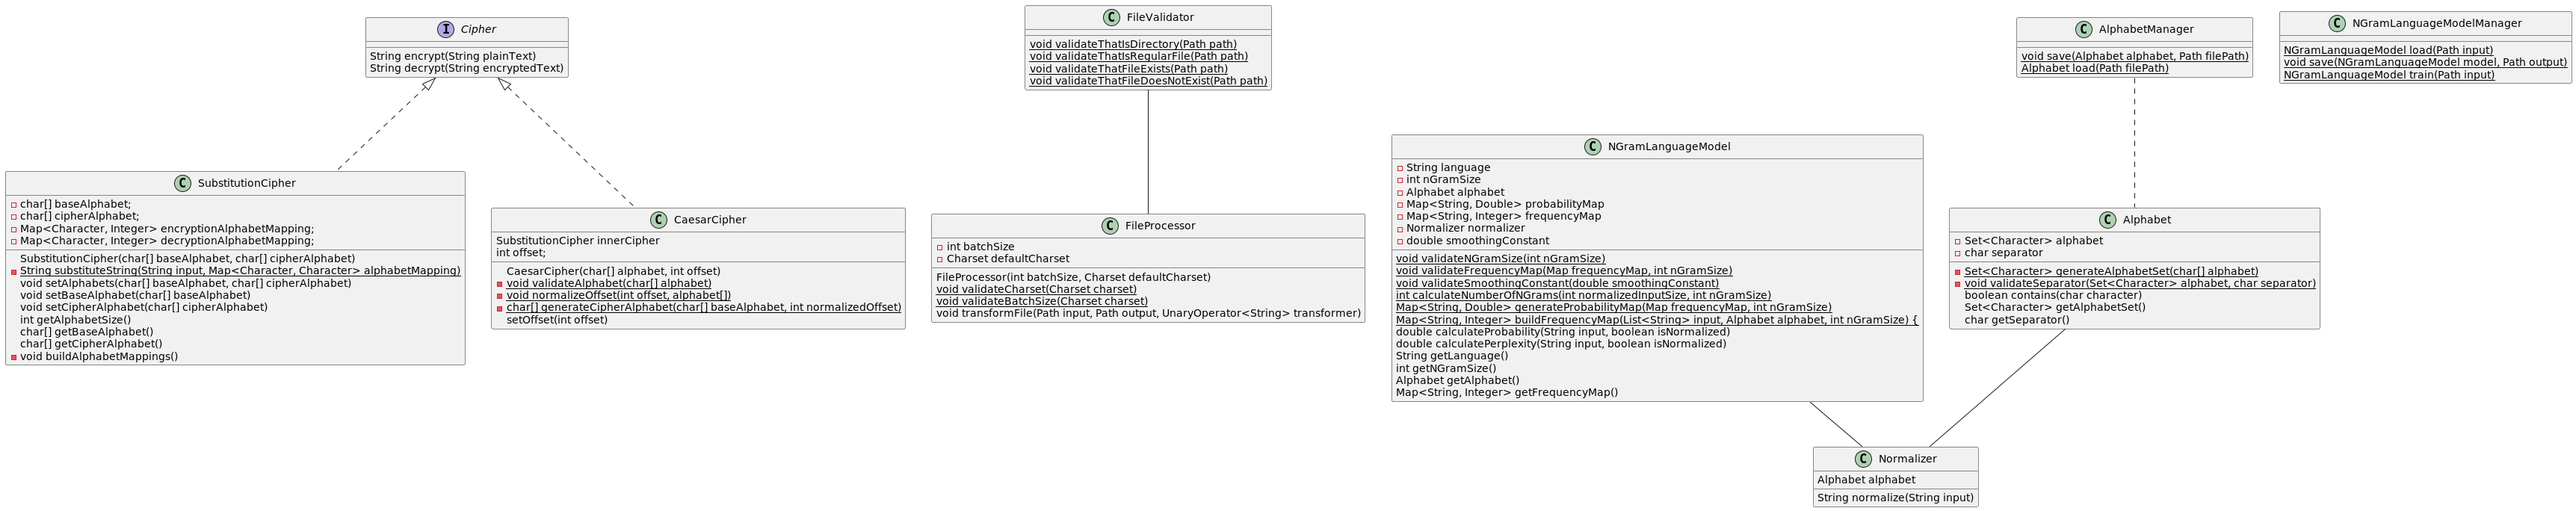
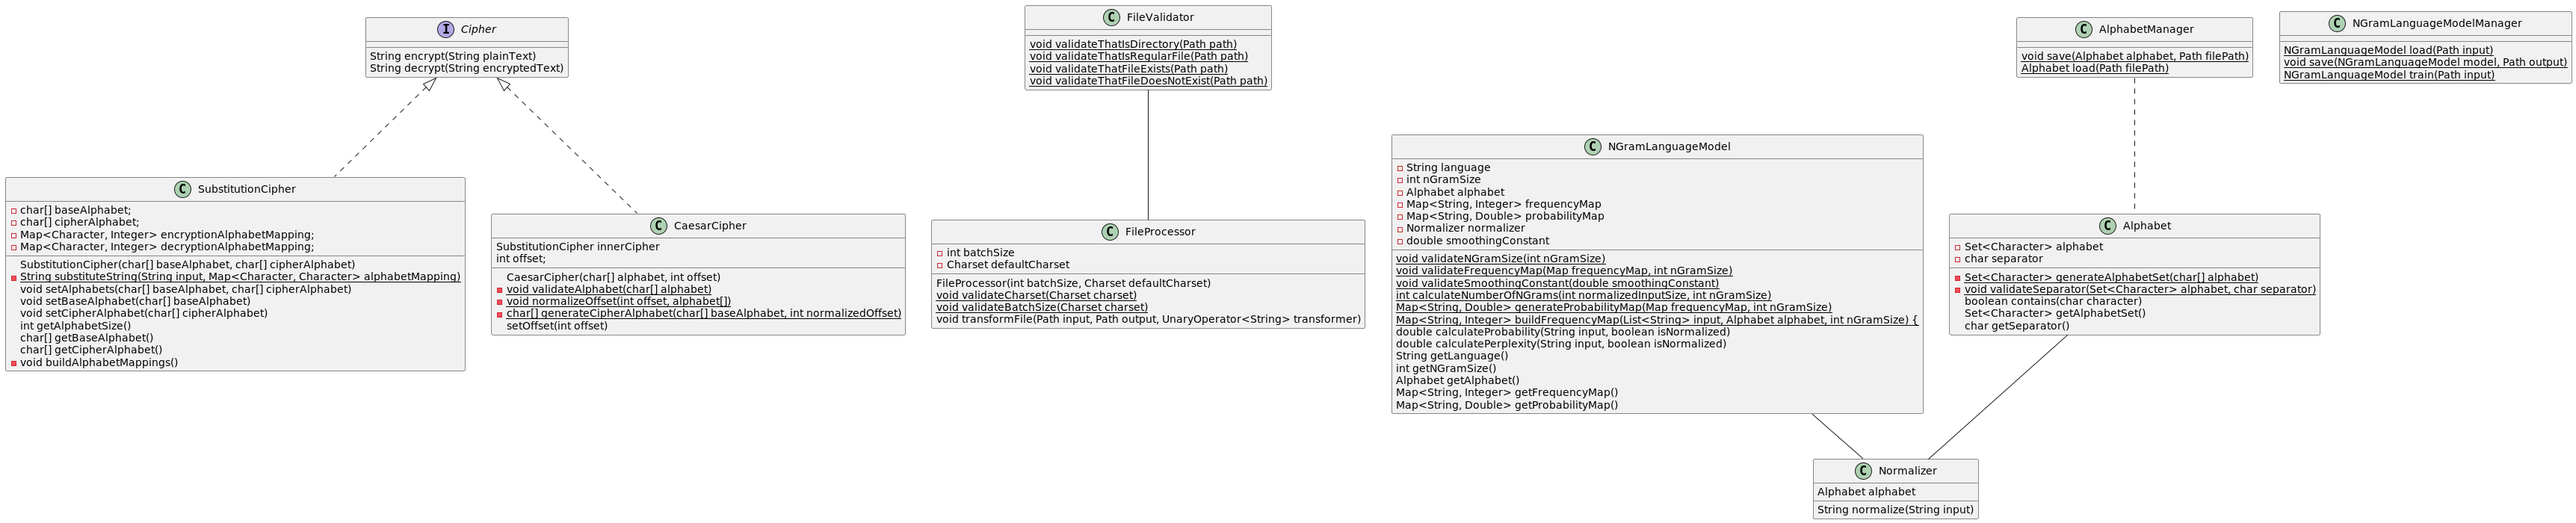
test: Implemented NGramLanguageModelManager.save()

diff --git a/app/src/test/java/cryptologyapp/nlp/NGramLanguageModelManagerTest.java b/app/src/test/java/cryptologyapp/nlp/NGramLanguageModelManagerTest.java
@@ -1,41 +1,76 @@
 package cryptologyapp.nlp;
 
 import cryptologyapp.TestingConstants;
+import cryptologyapp.files.Directories;
+import cryptologyapp.utils.FileTester;
+import org.junit.jupiter.api.AfterAll;
+import org.junit.jupiter.api.BeforeEach;
 import org.junit.jupiter.api.Test;
 
 import java.nio.file.Path;
-import java.nio.file.Paths;
+import java.util.ArrayList;
+import java.util.List;
+import java.util.Map;
 
-import static org.junit.jupiter.api.Assertions.*;
+import static org.junit.jupiter.api.Assertions.assertTrue;
 
 class NGramLanguageModelManagerTest {
 
-    static final char[] LATIN_ALPHABET = {'a', 'b', 'c', 'd', 'e', 'f', 'g', 'h', 'i', 'j', 'k', 'l', 'm', 'n', 'o', 'p', 'q', 'r', 's', 't', 'u', 'v', 'w', 'x', 'y', 'z'};
-    static final char SEPARATOR = '_';
-    static final double SMOOTHING_CONSTANT = 0.000001;
-    static final Path LATIN_TRAINING_FILE = TestingConstants.BASE_TEST_RESOURCES_PATH.resolve("latin-training-set.txt");
+
+    @BeforeEach
+    void cleanTmpOutputDirectoryBeforeEach() {
+        Directories.recursivelyDeleteDirectory(TestingConstants.BASE_TEST_TMP_OUTPUT_PATH);
+    }
+
+    @AfterAll
+    static void cleanTmpOutputDirectoryAfterAll() {
+        Directories.recursivelyDeleteDirectory(TestingConstants.BASE_TEST_TMP_OUTPUT_PATH);
+    }
 
     @Test
     void train() {
-        NGramLanguageModel model = NGramLanguageModelManager.train(LATIN_TRAINING_FILE,
+        NGramLanguageModel model = NGramLanguageModelManager.train(TestingConstants.LATIN_TRAINING_FILE,
                 "latin",
                 2,
-                LATIN_ALPHABET,
-                SEPARATOR,
-                SMOOTHING_CONSTANT);
-        double latinTextProbability = model.calculateProbability("lorem", false);
-        double randomTextProbability = model.calculateProbability("abc", false);
-        double latinTextPerplexity = model.calculatePerplexity("lorem", false);
-        double randomTextPerplexity = model.calculatePerplexity("abc", false);
-        System.out.format("latin text probability: %f | random text probability: %f",
+                TestingConstants.LATIN_ALPHABET,
+                TestingConstants.SEPARATOR,
+                TestingConstants.SMOOTHING_CONSTANT);
+        double latinTextProbability = model.calculateProbability("lorem ipsum", false);
+        double randomTextProbability = model.calculateProbability("abcdef", false);
+        double latinTextPerplexity = model.calculatePerplexity("lorem ipsum", false);
+        double randomTextPerplexity = model.calculatePerplexity("abcdef", false);
+        System.out.format("latin text probability: %f | random text probability: %f%n",
                 latinTextProbability,
                 randomTextProbability);
-        System.out.format("latin text perplexity: %f | random text perplexity: %f",
+        System.out.format("latin text perplexity: %f | random text perplexity: %f%n",
                 latinTextPerplexity,
                 randomTextPerplexity);
         assertTrue(latinTextProbability > randomTextProbability,
                 "Latin text should be more probable than random text for the Latin training set");
         assertTrue(latinTextPerplexity < randomTextPerplexity,
                 "Latin text should be less perplex than random text for the Latin training set");
+    }
+
+    @Test
+    void save() {
+        Path outputPath = TestingConstants.BASE_TEST_TMP_OUTPUT_PATH.resolve("test.model");
+        Path alphabetPath = TestingConstants.BASE_TEST_RESOURCES_PATH.resolve("simple-test.alphabet");
+        Alphabet alphabet = AlphabetManager.load(alphabetPath);
+        List<String> expectedFileOutputLines = new ArrayList<>() {{
+            add("test");
+            add("2");
+            add(Double.toString(TestingConstants.SMOOTHING_CONSTANT));
+            add("ab");
+            add("1");
+        }};
+
+        NGramLanguageModel model = new NGramLanguageModel("test",
+                2,
+                alphabet,
+                Map.of("ab", 1),
+                TestingConstants.SMOOTHING_CONSTANT);
+        NGramLanguageModelManager.save(model, outputPath);
+
+        FileTester.assertFileContent(expectedFileOutputLines, outputPath);
     }
 }

diff --git a/app/src/main/java/cryptologyapp/nlp/NGramLanguageModelManager.java b/app/src/main/java/cryptologyapp/nlp/NGramLanguageModelManager.java
@@ -1,10 +1,13 @@
 package cryptologyapp.nlp;
 
+import cryptologyapp.files.FileValidator;
 import cryptologyapp.util.NotImplementedYetException;
 
+import java.io.FileWriter;
 import java.io.IOException;
 import java.nio.file.Files;
 import java.nio.file.Path;
+import java.util.Iterator;
 import java.util.List;
 import java.util.Map;
 
@@ -20,11 +23,47 @@ public class NGramLanguageModelManager {
         throw new NotImplementedYetException();
     }
 
-    public static void save(NGramLanguageModel model, Path file) {
-        throw new NotImplementedYetException();
+    public static void save(NGramLanguageModel model, Path filePath) {
+        filePath = filePath.toAbsolutePath();
+        FileValidator.validateThatDoesNotExist(filePath);
+        Map<String, Integer> frequencyMap = model.getFrequencyMap();
+
+        try {
+            Files.createDirectories(filePath.getParent());
+            Files.createFile(filePath);
+        } catch (IOException e) {
+            throw new RuntimeException(e);
+        }
+
+        try (FileWriter fileWriter = new FileWriter(filePath.toFile(), false)) {
+            fileWriter.write(model.getLanguage());
+            fileWriter.write('\n');
+            fileWriter.write(Integer.toString(model.getNGramSize()));
+            fileWriter.write('\n');
+            fileWriter.write(Double.toString(model.getSmoothingConstant()));
+            fileWriter.write('\n');
+
+            // Frequency map
+            Iterator<Map.Entry<String, Integer>> mapIterator = frequencyMap.entrySet().iterator();
+            while (mapIterator.hasNext()) {
+                Map.Entry<String, Integer> entry = mapIterator.next();
+                fileWriter.write(String.format("%s%n%s", entry.getKey(), entry.getValue()));
+                if (mapIterator.hasNext()) {
+                    fileWriter.write('\n');
+                }
+            }
+
+            fileWriter.flush();
+        } catch (IOException e) {
+            throw new RuntimeException(e);
+        }
+
     }
 
     public static NGramLanguageModel train(Path input, String language, int nGramSize, char[] alphabetCharacters, char separator, double smoothingConstant) {
+        FileValidator.validateThatExists(input);
+        FileValidator.validateThatIsRegularFile(input);
+
         try {
             Alphabet alphabet = new Alphabet(alphabetCharacters, separator);
             List<String> fileLines = Files.readAllLines(input);
@@ -35,6 +74,7 @@ public class NGramLanguageModelManager {
                     frequencyMap,
                     smoothingConstant);
         } catch (IOException e) {
+            // Since file validations were performed before, this block should not be reached.
             throw new RuntimeException(e);
         }
     }

diff --git a/app/src/main/java/cryptologyapp/nlp/NGramLanguageModel.java b/app/src/main/java/cryptologyapp/nlp/NGramLanguageModel.java
@@ -9,6 +9,7 @@ public class NGramLanguageModel {
     private String language;
     private int nGramSize;
     private Alphabet alphabet;
+    private Map<String, Integer> frequencyMap;
     private Map<String, Double> probabilityMap;
     private Normalizer normalizer;
     private double smoothingConstant;
@@ -22,6 +23,7 @@ public class NGramLanguageModel {
         this.language = language;
         this.nGramSize = nGramSize;
         this.alphabet = alphabet;
+        this.frequencyMap = frequencyMap;
         this.probabilityMap = NGramLanguageModel.generateProbabilityMap(frequencyMap, nGramSize);
         this.smoothingConstant = smoothingConstant;
     }
@@ -131,7 +133,7 @@ public class NGramLanguageModel {
         int nGramCount = NGramLanguageModel.calculateNumberOfNGrams(input.length(), this.nGramSize);
         for (int i = 0; i < nGramCount; i++) {
             String nGram = input.substring(i, i + this.nGramSize);
-            probability *= this.probabilityMap.getOrDefault(nGram, this.smoothingConstant);
+            probability *= this.probabilityMap.getOrDefault(nGram, this.getSmoothingConstant());
         }
         return probability;
     }
@@ -148,7 +150,15 @@ public class NGramLanguageModel {
         return alphabet;
     }
 
+    public Map<String, Integer> getFrequencyMap() {
+        return Collections.unmodifiableMap(this.frequencyMap);
+    }
+
     public Map<String, Double> getProbabilityMap() {
-        return Collections.unmodifiableMap(probabilityMap);
+        return Collections.unmodifiableMap(this.probabilityMap);
+    }
+
+    public double getSmoothingConstant() {
+        return smoothingConstant;
     }
 }

diff --git a/app/src/test/java/cryptologyapp/utils/FileTester.java b/app/src/test/java/cryptologyapp/utils/FileTester.java
@@ -1,7 +1,8 @@
 package cryptologyapp.utils;
 
+import cryptologyapp.files.FileValidator;
+
 import java.io.IOException;
-import java.nio.file.Files;
 import java.nio.file.Path;
 import java.util.List;
 
@@ -16,8 +17,9 @@ public class FileTester {
     }
 
     public static void assertFileContent(List<String> expectedFileLines, Path filePath) {
+        FileValidator.validateThatExists(filePath);
         try {
-            List<String> actualLines = Files.readAllLines(filePath);
+            List<String> actualLines = java.nio.file.Files.readAllLines(filePath);
             assertEquals(expectedFileLines.size(), actualLines.size());
             for (int i = 0; i < expectedFileLines.size(); i++) {
                 String expectedLine = expectedFileLines.get(i);

diff --git a/app/src/test/java/cryptologyapp/nlp/AlphabetManagerTest.java b/app/src/test/java/cryptologyapp/nlp/AlphabetManagerTest.java
@@ -9,10 +9,7 @@ import org.junit.jupiter.api.AfterAll;
 import org.junit.jupiter.api.BeforeEach;
 import org.junit.jupiter.api.Test;
 
-import java.io.IOException;
-import java.nio.file.Files;
 import java.nio.file.Path;
-import java.util.ArrayList;
 import java.util.List;
 import java.util.Set;
 
